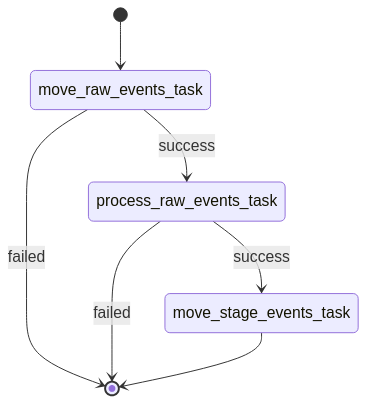
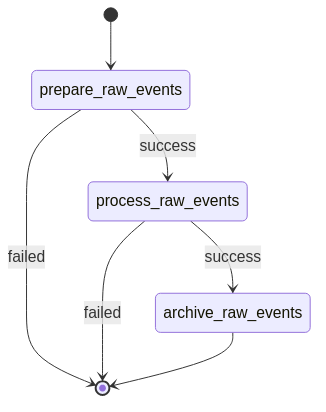
Refactor name of batch tasks

diff --git a/services/clickstream/src/batch/dags/dag.py b/services/clickstream/src/batch/dags/dag.py
@@ -20,7 +20,7 @@ with DAG(
     # if this task failed go end otherwise go t2
     t1 = BashOperator(
         task_id="move_raw_events_task",
-        bash_command="/opt/airflow/jobs/scripts/move_raw_events_job.sh ",
+        bash_command="/opt/airflow/jobs/scripts/move_job.sh ${HADOOP_URI}/${HADOOP_RAW_EVENTS_DIR} ${HADOOP_URI}/${HADOOP_STAGE_EVENTS_DIR} ",
     )
 
     # run this task when t1 is succeed
@@ -43,7 +43,7 @@ with DAG(
 
     t3 = BashOperator(
         task_id="move_stage_events_task",
-        bash_command="/opt/airflow/jobs/scripts/move_stage_events_job.sh ",
+        bash_command="/opt/airflow/jobs/scripts/move_job.sh ${HADOOP_URI}/${HADOOP_STAGE_EVENTS_DIR} ${HADOOP_URI}/${HADOOP_ARCHIVE_EVENTS_DIR} ",
     )
 
     end = DummyOperator(

diff --git a/docs/services/clickstream/batch/index.md b/docs/services/clickstream/batch/index.md
@@ -18,9 +18,9 @@ There are few jobs in order to perform ETL process and we are using `Apache Airf
 
 | Name                          | Description                                                                                                   |
 | ---                           | --                                                                                                            |
-| move_raw_events_task          | Move all `raw events` from `raw/` directory into `stage/` directory for prepare the data in order to process. |
-| process_raw_events_task       | Reads the `staged events` from `stage/` directory and performs data transformations and then writes the `transformed events` into `final/` directory.               |
-| move_stage_events_task        | After the processing, move all `staged events` from `stage/` directory into `archive/` directory. It performs backing up the data for any fault or reprocessing circumstances.                  |
+| prepare_raw_events          | Move all `raw events` from `raw/` directory into `stage/` directory for prepare the data in order to process. |
+| process_raw_events       | Reads the `staged events` from `stage/` directory and performs data transformations and then writes the `transformed events` into `final/` directory.               |
+| archive_raw_events        | After the processing, move all `staged events` from `stage/` directory into `archive/` directory. It performs backing up the data for any fault or reprocessing circumstances.                  |
 
 # Changelogs
 - [v0.1.0-alpha.1](/services/clickstream/src/batch/CHANGELOG.md#v010-alpha1)
